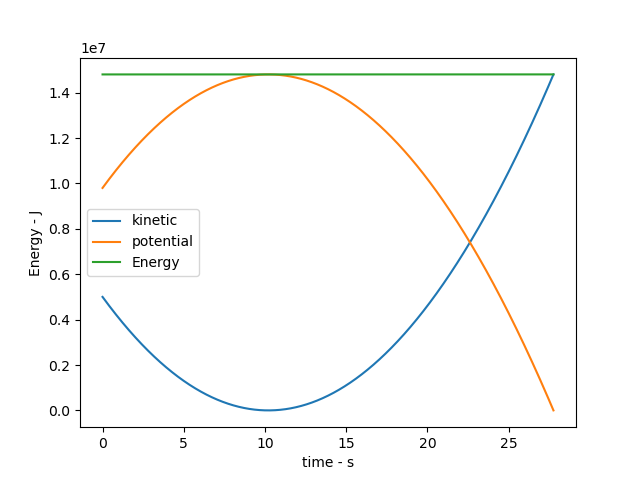
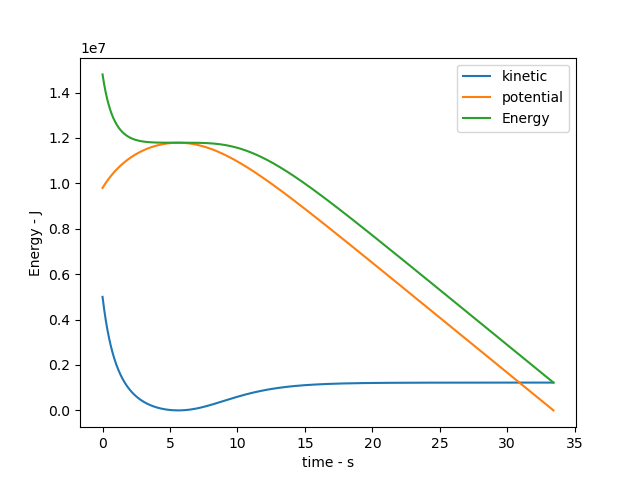
add drag coeff

diff --git a/cow_fun.py b/cow_fun.py
@@ -7,7 +7,7 @@ import pandas as pd
 
 def cow_force(v, pos, k):
 	grav  = np.array([0, m * (-9.8)])
-	w_res = (-1) *k * np.linalg.norm(v) * np.sqrt(v.dot(v))**2
+	w_res = (-1) *k * v/np.linalg.norm(v) * (v.dot(v))
 	force = np.add(grav, w_res)
 	return force 
 
@@ -30,7 +30,7 @@ v = np.array([1,100])
 pos = np.array([0, 1000])
 step = 0.001
 m = 1000
-k = 0
+k = 4
 x = []
 y = []
 Ti = []
